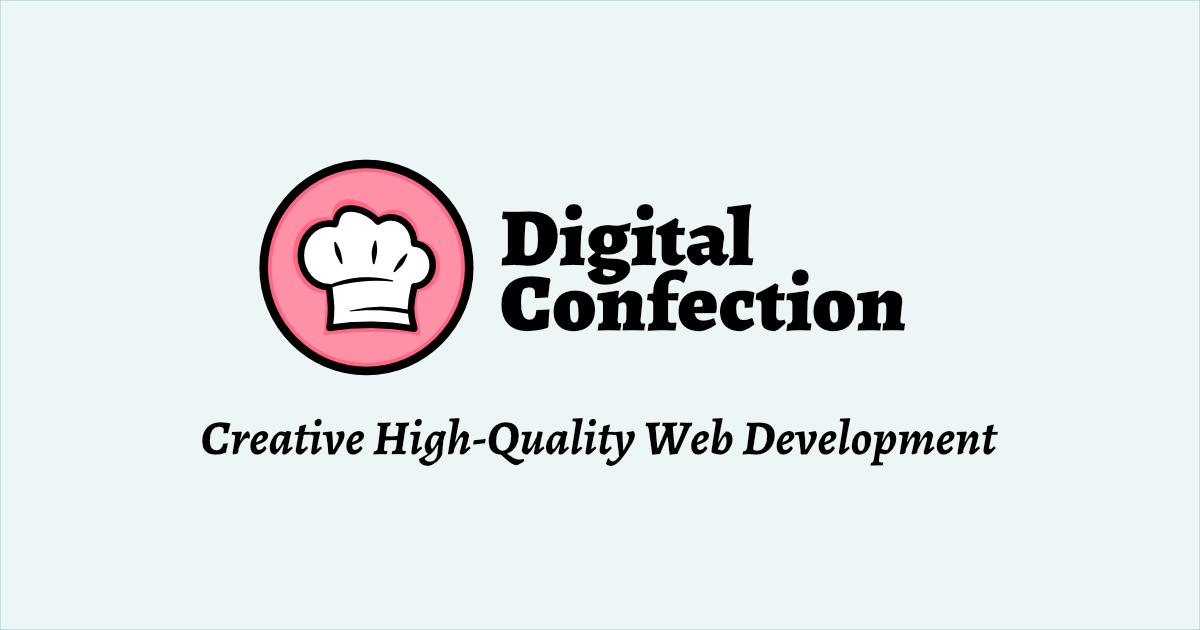
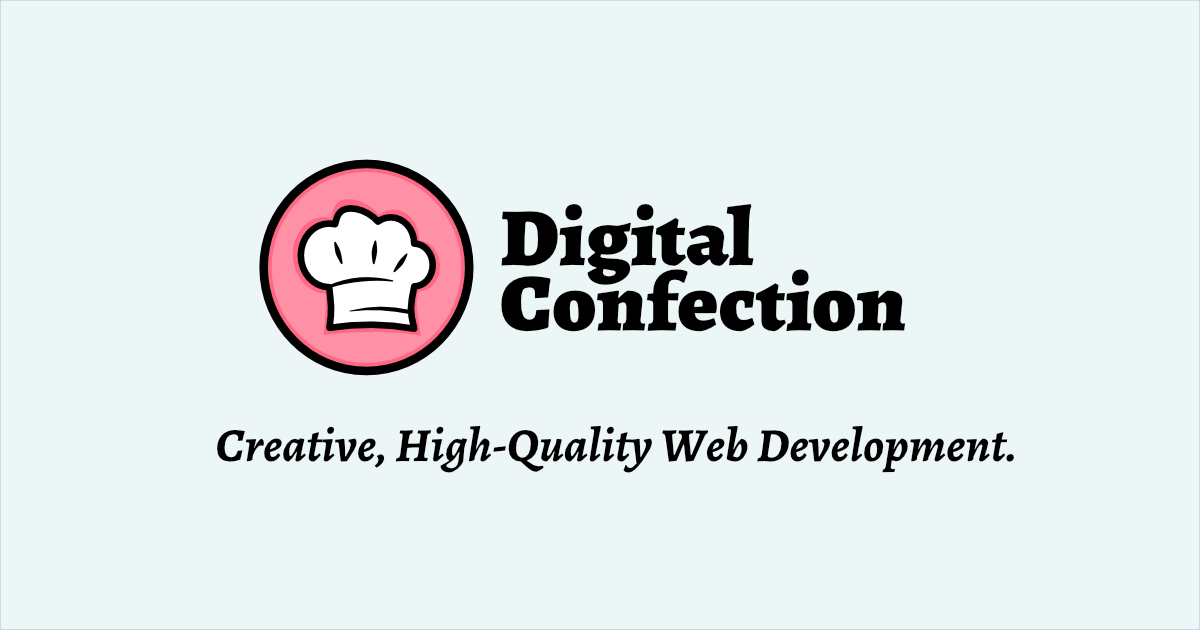
updated info

Changed region(s): [[0.1542, 0.6635, 0.8633, 0.754]]

diff --git a/_themes/dc/templates/page--front.tpl.php b/_themes/dc/templates/page--front.tpl.php
@@ -2,7 +2,7 @@
   <div class="container">
     <div class="two-col">
       <div>
-        <h1><span class="subtitle">Creative</span> <span class="lb">High-Quality</span> Web Development.</h1>
+        <h1><span class="subtitle">Creative,</span> <span class="lb">High-Quality</span> Web Development.</h1>
         <p>Digital Confection is a is a DC metro area based creative web development studio specializing in building simple, elegant, high-quality websites. From exceptional customer services, timely assistance, and creative thinking, we help customers succeed efficiently and effectively.</p>
         <br>
         <a href="mailto:hello@digitalconfection.com?Subject=Hello%20From%20Website" class="button">Lets Connect</a>
